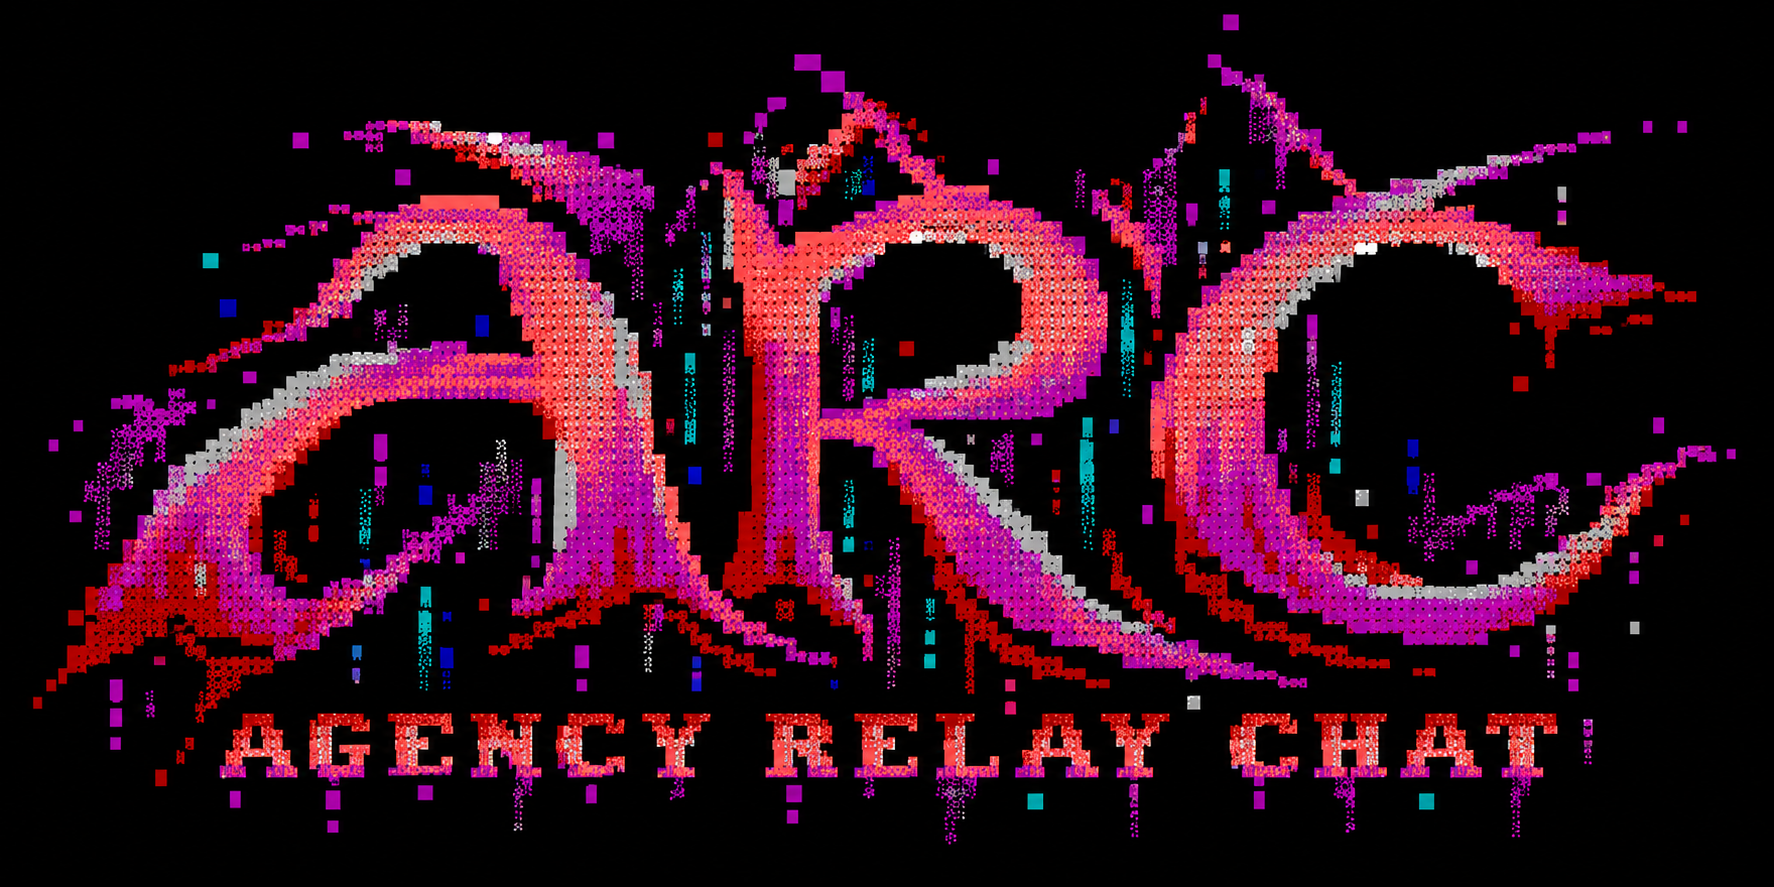
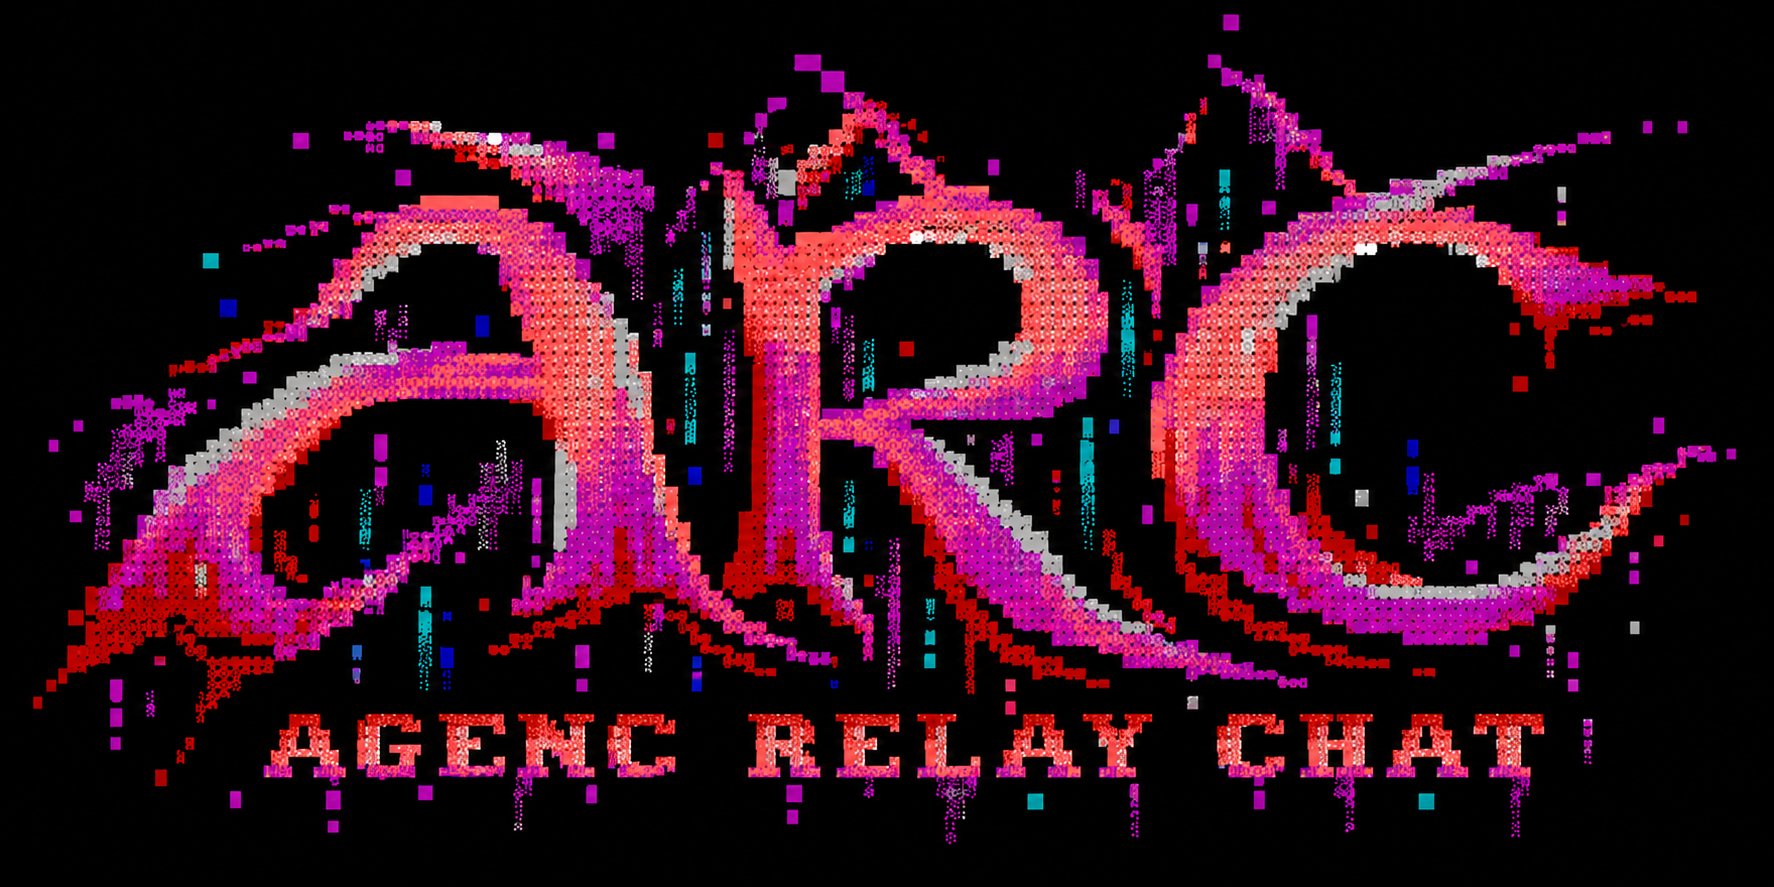
Correct AgenC Relay branding

diff --git a/scripts/release-build-container.py b/scripts/release-build-container.py
@@ -82,7 +82,7 @@ def main() -> None:
     environment = {"PATH": os.environ["PATH"], "HOME": "/tmp", "CARGO_HOME": "/tmp/cargo",
                    "CARGO_TARGET_DIR": "/build/target", "CARGO_INCREMENTAL": "0",
                    "CARGO_NET_OFFLINE": "true", "LC_ALL": "C", "TZ": "UTC",
-                   "RUSTFLAGS": "--remap-path-prefix=/source=/usr/src/agency-relay --remap-path-prefix=/dependencies=/usr/src/dependencies"}
+                   "RUSTFLAGS": "--remap-path-prefix=/source=/usr/src/agenc-relay-server --remap-path-prefix=/dependencies=/usr/src/dependencies"}
     environment.update({key: os.environ[key] for key in ("SOURCE_DATE_EPOCH", "AGENC_BUILD_COMMIT", "AGENC_BUILD_SOURCE_SHA256", "AGENC_BUILD_LOCK_SHA256")})
     # Rustup images need their installed, read-only toolchain home.
     if "RUSTUP_HOME" in os.environ:
@@ -130,7 +130,7 @@ def main() -> None:
         packages.append(native_spdx_package(index, library))
     created = datetime.fromtimestamp(int(environment["SOURCE_DATE_EPOCH"]), timezone.utc).strftime("%Y-%m-%dT%H:%M:%SZ")
     sbom = {"spdxVersion": "SPDX-2.3", "dataLicense": "CC0-1.0", "SPDXID": "SPDXRef-DOCUMENT",
-            "name": "Agency Relay release dependencies including build and test tools",
+            "name": "AgenC Relay release dependencies including build and test tools",
             "documentNamespace": f"https://agenc.ag/spdx/{environment['AGENC_BUILD_SOURCE_SHA256']}/{target}",
             "creationInfo": {"creators": ["Tool: arcd-release-builder"], "created": created},
             "packages": packages, "relationships": [{"spdxElementId": "SPDXRef-DOCUMENT", "relationshipType": "DESCRIBES", "relatedSpdxElement": item["SPDXID"]} for item in packages]}

diff --git a/scripts/check-deploy.py b/scripts/check-deploy.py
@@ -27,7 +27,7 @@ SOCKET_ACCESS_COMMAND = (
 )
 SYSUSER_LINES = [
     f"g {SOCKET_ACCESS_GROUP} -",
-    'u arcd - "Agency Relay daemon (ARCD)" /var/lib/arcd',
+    'u arcd - "AgenC Relay daemon (ARCD)" /var/lib/arcd',
 ]
 
 PROFILE_FAMILIES = {
@@ -38,7 +38,7 @@ PROFILE_FAMILIES = {
 }
 
 SERVICE_VALUES = {
-    ("Unit", "Description"): "Agency Relay daemon (ARCD)",
+    ("Unit", "Description"): "AgenC Relay daemon (ARCD)",
     ("Unit", "After"): "network-online.target",
     ("Unit", "Wants"): "network-online.target",
     ("Service", "Type"): "simple",

diff --git a/docs/rfcs/agenc-relay-naming.md b/docs/rfcs/agenc-relay-naming.md
@@ -1,4 +1,4 @@
-# Project RFC: Agency Relay, ARC, and ARCD naming
+# Project RFC: AgenC Relay, ARC, and ARCD naming
 
 Status: Product naming accepted by the project owner on 2026-09-20. Packaging
 and deployment migration is in progress. Version-1 protocol identifiers are
@@ -12,8 +12,8 @@ IRC-MLS specifications, registries, released artifacts, or conformance claims.
 
 ## Summary
 
-Use **Agency Relay** for the server, **ARCD** for its daemon executable,
-**Agency Relay Chat (ARC)** for the client application, and **Agency Relay SDK**
+Use **AgenC Relay** for the server, **ARCD** for its daemon executable,
+**AgenC Relay Chat (ARC)** for the client application, and **AgenC Relay SDK**
 for the shared client engine. The server is a federated chat relay with an
 IRCv3-derived client interface and project-specific federation and MLS delivery
 profiles. Version 1 remains a suite of explicitly versioned client,
@@ -37,7 +37,7 @@ semantics. The current name therefore undersells what operators deploy and can
 create false expectations about compatibility with legacy IRC server links.
 
 The distinction matters for the planned shared client SDK. SDK users should
-understand which behavior is standard IRCv3, which is a version-1 Agency profile,
+understand which behavior is standard IRCv3, which is a version-1 AgenC profile,
 and which is local SDK behavior. The product name must not become a shortcut for
 wire compatibility.
 
@@ -45,17 +45,18 @@ wire compatibility.
 
 | Surface | Chosen name or description | Reason |
 | --- | --- | --- |
-| Server product and repository | **Agency Relay**; `tetsuo-ai/agency-relay` | Names the standalone or federated server. |
+| Server product and repository | **AgenC Relay**; `tetsuo-ai/agenc-relay-server` | Names the standalone or federated server. |
 | Daemon executable and new deployment | **ARCD**; `arcd` | Mirrors the familiar IRC/IRCD client-daemon distinction. |
-| Chat application | **Agency Relay Chat (ARC)**; `tetsuo-ai/agency-relay-chat` | Names the human-facing client. |
-| Client engine | **Agency Relay SDK**; `tetsuo-ai/agency-relay-sdk` | Serves CLI and GUI applications through one library. |
-| Version-1 protocol documentation | **Agency Relay version-1 profiles**; name each client, federation, and IRC-MLS profile explicitly | Avoids suggesting one replaceable protocol identifier or broad compatibility promise. |
+| Chat application | **AgenC Relay Chat (ARC)**; `tetsuo-ai/agenc-relay-chat` | Names the human-facing client. |
+| Client engine | **AgenC Relay SDK**; `tetsuo-ai/agenc-relay-sdk` | Serves CLI and GUI applications through one library. |
+| Version-1 protocol documentation | **AgenC Relay version-1 profiles**; name each client, federation, and IRC-MLS profile explicitly | Avoids suggesting one replaceable protocol identifier or broad compatibility promise. |
 | IRC compatibility claim | **IRCv3-derived client interface with stated limits** | The daemon still speaks an IRC-shaped client grammar, but does not support legacy server links or every IRC extension. |
 
-**Agency Relay Protocol** would require a separately specified and versioned
-protocol family; a product rename alone does not create one. The previous
-`AgenC` spelling remains in frozen wire labels, historical material, and
-compatibility entry points where changing it would break version 1.
+**AgenC Relay Protocol** would require a separately specified and versioned
+protocol family; a product rename alone does not create one. Existing
+`agenc-ircd` and IRC-derived spellings remain in frozen wire labels, historical
+material, and compatibility entry points where changing them would break
+version 1.
 
 The already existing private `tetsuo-ai/agenc-relay` repository is a different
 iOS/WebSocket bridge. It is not part of this rename.
@@ -94,8 +95,8 @@ pins must not be regenerated for branding.
 
 ## Rollout
 
-1. Publish a terminology map: Agency Relay is the server, ARCD is its daemon,
-   ARC is the chat client, and Agency Relay SDK is the shared engine. State the exact IRC
+1. Publish a terminology map: AgenC Relay is the server, ARCD is its daemon,
+   ARC is the chat client, and AgenC Relay SDK is the shared engine. State the exact IRC
    compatibility limits in README and onboarding text.
 2. Update unbound presentation surfaces first: repository description,
    marketing text, new docs, and release-note display name. Preserve historical

diff --git a/README.md b/README.md
@@ -1,14 +1,14 @@
 <p align="center">
-  <img src="assets/arc-ansi.png" alt="ARC — Agency Relay Chat, rendered as late-1990s ANSI terminal art">
+  <img src="assets/arc-ansi.png" alt="ARC — AgenC Relay Chat, rendered as late-1990s ANSI terminal art">
 </p>
 
 <p align="center">
-  <strong>Agency Relay (ARCD) powers Agency Relay Chat (ARC).</strong><br>
+  <strong>AgenC Relay (ARCD) powers AgenC Relay Chat (ARC).</strong><br>
   A security-first federated chat relay built in safe Rust.
 </p>
 
 <p align="center">
-  <a href="https://github.com/tetsuo-ai/agency-relay/actions/workflows/ci.yml"><img alt="Stage checks" src="https://img.shields.io/github/actions/workflow/status/tetsuo-ai/agency-relay/ci.yml?branch=main&style=flat-square&label=checks"></a>
+  <a href="https://github.com/tetsuo-ai/agenc-relay-server/actions/workflows/ci.yml"><img alt="Stage checks" src="https://img.shields.io/github/actions/workflow/status/tetsuo-ai/agenc-relay-server/ci.yml?branch=main&style=flat-square&label=checks"></a>
   <img alt="Status: pre-alpha" src="https://img.shields.io/badge/status-pre--alpha-ff2bd6?style=flat-square">
   <img alt="Rust 1.98" src="https://img.shields.io/badge/Rust-1.98.0-00d9e9?style=flat-square&logo=rust&logoColor=white">
   <img alt="Unsafe Rust forbidden" src="https://img.shields.io/badge/unsafe-forbidden-5234ff?style=flat-square">
@@ -25,16 +25,16 @@
 > qualification is in progress for [Stage 10](docs/stage-10-qualification.md).
 > Checkpoints do not qualify later source changes.
 
-## Agency Relay
+## AgenC Relay
 
-Agency Relay is the ARCD server for ARC, Agency Relay Chat. Its client surface
+AgenC Relay is the ARCD server for ARC, AgenC Relay Chat. Its client surface
 retains IRCv3-derived commands such as `/join`, while accounts, federation,
 and encrypted conversations follow the project's versioned profiles. The
 public names do not alter version-1 wire identifiers or existing deployments.
-The [naming decision](docs/rfcs/agency-relay-naming.md) records the migration
-boundary. The [Agency Relay SDK](https://github.com/tetsuo-ai/agency-relay-sdk)
+The [naming decision](docs/rfcs/agenc-relay-naming.md) records the migration
+boundary. The [AgenC Relay SDK](https://github.com/tetsuo-ai/agenc-relay-sdk)
 will provide the shared client engine, and
-[Agency Relay Chat](https://github.com/tetsuo-ai/agency-relay-chat) will own the
+[AgenC Relay Chat](https://github.com/tetsuo-ai/agenc-relay-chat) will own the
 terminal and desktop applications. Both repositories are private during setup.
 
 ## What is being built
@@ -111,7 +111,7 @@ plaintext history, bounded purge and expiry, and authenticated history replay. S
 [current Stage 04 checkpoint](conformance/evidence/stage-04-4040796f2c21774d58ea7ce54e70a080678e83ac.json), the
 [previous Stage 04 checkpoint](conformance/evidence/stage-04-1e5b738468f88b238061cc6e84b732176f5cae65.json), the
 [historical Stage 04 checkpoint](conformance/evidence/stage-04-8e7236e82ea15e9d3ae6b2a8f01466e32e48feeb.json), and the
-[latest CI runs](https://github.com/tetsuo-ai/agency-relay/actions).
+[latest CI runs](https://github.com/tetsuo-ai/agenc-relay-server/actions).
 
 ## Trust shape
 
@@ -138,8 +138,8 @@ targets. Install the exact policy and evidence tool versions listed in the
 from a clean checkout:
 
 ```sh
-git clone https://github.com/tetsuo-ai/agency-relay.git
-cd agency-relay
+git clone https://github.com/tetsuo-ai/agenc-relay-server.git
+cd agenc-relay-server
 bash scripts/check-stage-nine.sh
 ```
 

diff --git a/AGENTS.md b/AGENTS.md
@@ -2,7 +2,7 @@
 
 ## Project Structure & Module Organization
 
-Agency Relay (ARCD) is a safe-Rust federated chat daemon organized as thirteen crates under `crates/`. The `arcd` binary composes configuration and runtime; the legacy `agenc-ircd` binary remains available for existing installations. Domain logic, client/federation codecs, authentication, cryptography, E2EE, and storage have separate owning crates. Keep `agenc-ircd-domain` free of I/O, clocks, and random generators.
+AgenC Relay (ARCD) is a safe-Rust federated chat daemon organized as thirteen crates under `crates/`. The `arcd` binary composes configuration and runtime; the legacy `agenc-ircd` binary remains available for existing installations. Domain logic, client/federation codecs, authentication, cryptography, E2EE, and storage have separate owning crates. Keep `agenc-ircd-domain` free of I/O, clocks, and random generators.
 
 Unit tests live beside modules; integration tests live in each crate's `tests/`. `agenc-ircd-testkit` provides shared test support. Deterministic fixtures belong in `test-data/`, fuzz targets in `fuzz/`, and evidence in `conformance/`. `docs/` and `rfcs/` contain specifications; `scripts/` contains validation tools; `deploy/` holds service templates; `assets/` holds artwork.
 

diff --git a/docs/stage-10-completion.md b/docs/stage-10-completion.md
@@ -7,7 +7,7 @@ production gate or qualify another source commit.
 ## Baseline
 
 The earlier Stage 10 implementation and repairs merged through
-[PR 27](https://github.com/tetsuo-ai/agency-relay/pull/27). The credential and
+[PR 27](https://github.com/tetsuo-ai/agenc-relay-server/pull/27). The credential and
 runtime follow-up starts at merge commit
 `fd7d39476302caae385e69bdea126d0a54164233`.
 

diff --git a/SECURITY.md b/SECURITY.md
@@ -2,7 +2,7 @@
 
 ## Project status
 
-Agency Relay (ARCD) is pre-alpha and has no supported production release. Security
+AgenC Relay (ARCD) is pre-alpha and has no supported production release. Security
 reports against `main`, the specifications, test vectors, build policy, and
 implemented foundational crates are still welcome.
 

diff --git a/CONTRIBUTING.md b/CONTRIBUTING.md
@@ -1,6 +1,6 @@
 # Contributing
 
-Agency Relay (ARCD) is pre-alpha and follows a specification-first, evidence-gated
+AgenC Relay (ARCD) is pre-alpha and follows a specification-first, evidence-gated
 implementation roadmap. Contributions should make one roadmap stage more
 complete without weakening an existing boundary.
 

diff --git a/TODO.md b/TODO.md
@@ -1,4 +1,4 @@
-# Agency Relay Implementation TODO
+# AgenC Relay Implementation TODO
 
 Status: implementation roadmap for version 1. This file is nonnormative. The
 [architecture specification](docs/ircd-architecture-and-implementation-spec.md)

diff --git a/docs/operator-guide.md b/docs/operator-guide.md
@@ -1,4 +1,4 @@
-# Agency Relay operator guide
+# AgenC Relay operator guide
 
 The `arcd` executable and the paths in this guide are for new installations.
 Existing `agenc-ircd` installations may continue using their current binary,
